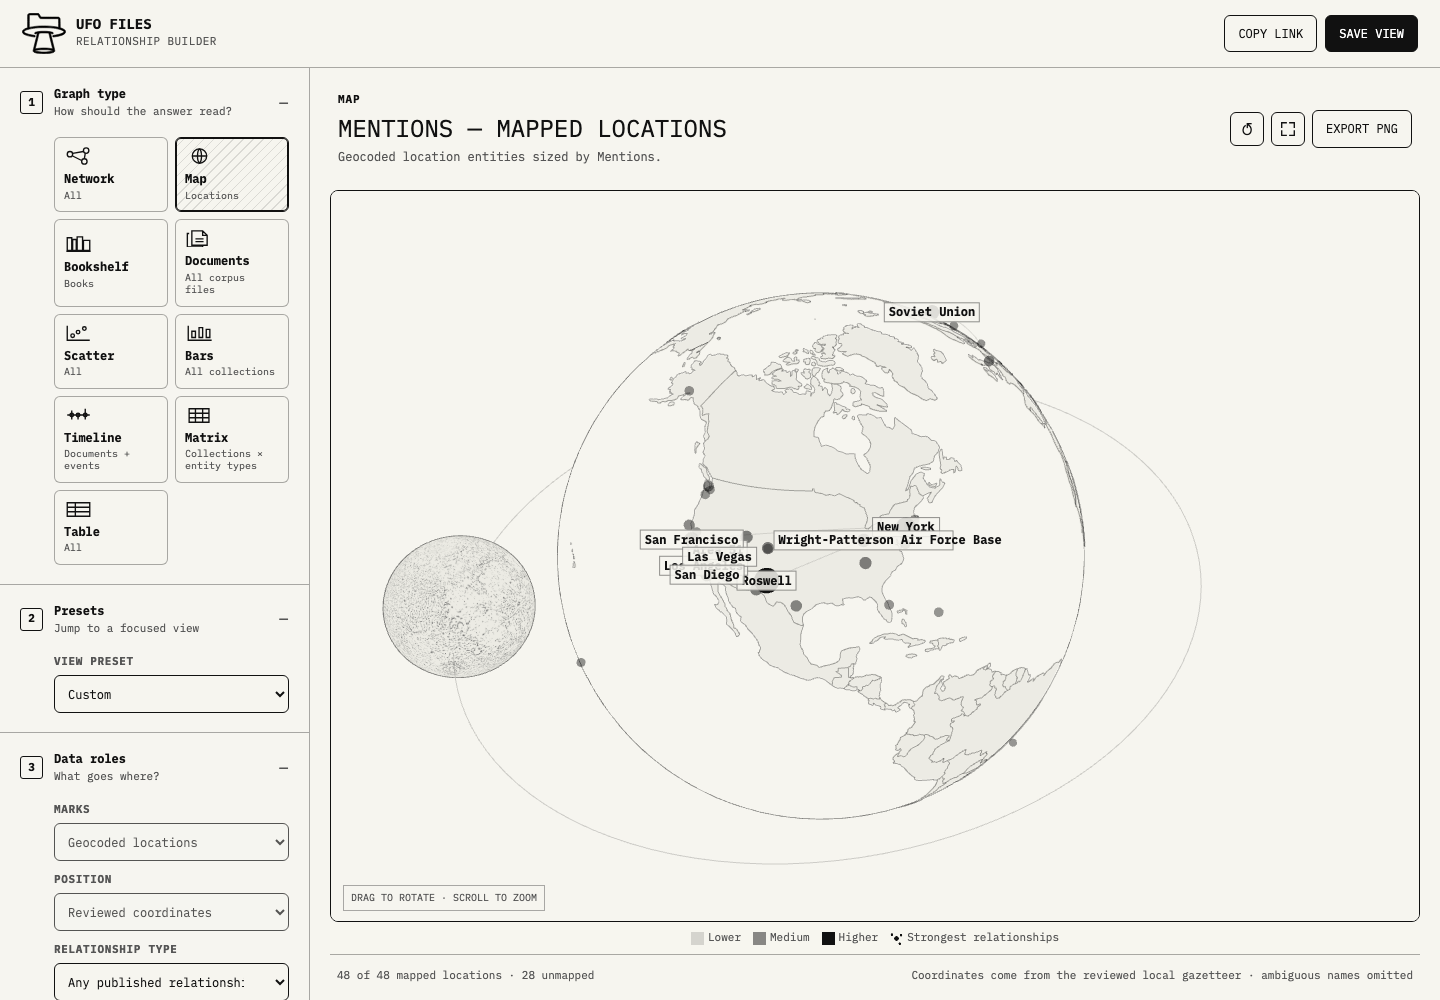
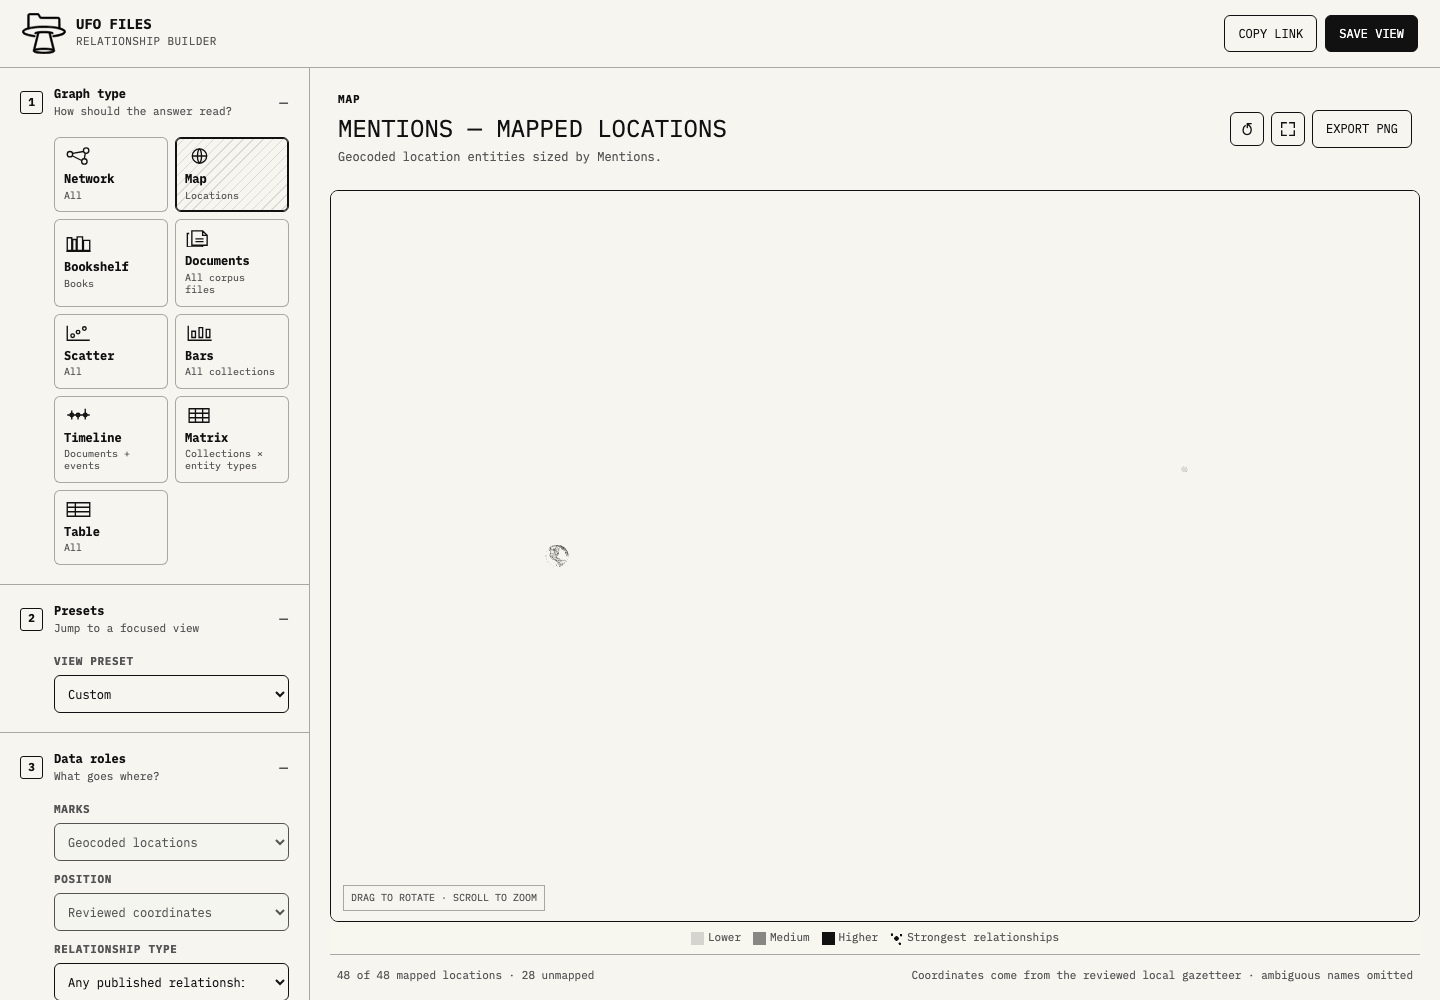
Use physical Earth-Moon distance

diff --git a/map-globe.js b/map-globe.js
@@ -11,14 +11,15 @@ const DEFAULT_GLOBE_ROTATION = { x: .66, y: .11 };
 const AUTO_ROTATION_SPEED = .000025;
 const EARTH_EQUATORIAL_RADIUS_KM = 6371;
 const MOON_EQUATORIAL_RADIUS_KM = 1737.4;
+const MOON_MEAN_ORBIT_RADIUS_KM = 384_400;
 const MOON_ORBIT_DAYS = 27.322;
 const MOON_ORBIT_INCLINATION = 5.145;
 const MOON_RADIUS = MOON_EQUATORIAL_RADIUS_KM / EARTH_EQUATORIAL_RADIUS_KM;
-// The true average separation is about 60 Earth radii; this display-only gap keeps the map usable.
-const MOON_DISPLAY_ORBIT_RADIUS = 1.42;
+const MOON_ORBIT_RADIUS = MOON_MEAN_ORBIT_RADIUS_KM / EARTH_EQUATORIAL_RADIUS_KM;
 // Physical time is compressed so a complete orbit is observable in the interactive view.
 const MOON_DISPLAY_ORBIT_PERIOD_MS = 30_000;
 const MOON_ORBIT_SPEED = Math.PI * 2 / MOON_DISPLAY_ORBIT_PERIOD_MS;
+const MAX_CAMERA_DISTANCE = 180;
 
 function cameraDistanceForCoverage(verticalFov, coverage) {
   const halfFov = THREE.MathUtils.degToRad(verticalFov / 2);
@@ -31,7 +32,7 @@ class GlobeMap {
     this.renderer.setPixelRatio(Math.min(2, window.devicePixelRatio || 1));
     this.renderer.outputColorSpace = THREE.SRGBColorSpace;
     this.scene = new THREE.Scene();
-    this.camera = new THREE.PerspectiveCamera(38, 1, .1, 100);
+    this.camera = new THREE.PerspectiveCamera(38, 1, .1, 500);
     this.camera.position.set(DEFAULT_CAMERA_TARGET_X, 0, cameraDistanceForCoverage(this.camera.fov, DEFAULT_GLOBE_COVERAGE));
     this.camera.lookAt(DEFAULT_CAMERA_TARGET_X, 0, 0);
     this.earthMoonSystem = new THREE.Group();
@@ -61,27 +62,13 @@ class GlobeMap {
     const orbitPlane = new THREE.Group();
     orbitPlane.rotation.z = THREE.MathUtils.degToRad(MOON_ORBIT_INCLINATION);
     this.earthMoonSystem.add(orbitPlane);
-    const orbitPoints = Array.from({ length: 128 }, (_, index) => {
-      const angle = index / 128 * Math.PI * 2;
-      return new THREE.Vector3(
-        Math.cos(angle) * MOON_DISPLAY_ORBIT_RADIUS,
-        0,
-        Math.sin(angle) * MOON_DISPLAY_ORBIT_RADIUS
-      );
-    });
-    const orbitPath = new THREE.LineLoop(
-      new THREE.BufferGeometry().setFromPoints(orbitPoints),
-      new THREE.LineBasicMaterial({ color: 0x111111, transparent: true, opacity: .18 })
-    );
-    orbitPath.name = "moon-orbit-path";
-    orbitPlane.add(orbitPath);
     this.moonOrbit = new THREE.Group();
     orbitPlane.add(this.moonOrbit);
 
     this.moonMaterial = new THREE.MeshBasicMaterial({ color: 0xd0cec7 });
     const moon = new THREE.Group();
     moon.name = "moon";
-    moon.position.x = MOON_DISPLAY_ORBIT_RADIUS;
+    moon.position.x = MOON_ORBIT_RADIUS;
     // SphereGeometry maps the source's central near-side meridian to +X. At the
     // starting +X orbital position, rotate it toward Earth (-X). Inheriting the
     // orbit group's rotation then keeps that same face Earth-facing at every angle.
@@ -226,7 +213,8 @@ class GlobeMap {
     canvas.addEventListener("pointercancel", () => { this.drag = null; });
     canvas.addEventListener("wheel", event => {
       event.preventDefault();
-      this.camera.position.z = THREE.MathUtils.clamp(this.camera.position.z + event.deltaY * .002, 1.75, 5);
+      const zoomFactor = Math.exp(event.deltaY * .0015);
+      this.camera.position.z = THREE.MathUtils.clamp(this.camera.position.z * zoomFactor, 1.75, MAX_CAMERA_DISTANCE);
       this.draw();
     }, { passive: false });
     canvas.addEventListener("dblclick", () => this.reset());
@@ -237,7 +225,7 @@ class GlobeMap {
       else if (event.key === "ArrowUp") this.earthMoonSystem.rotation.x = Math.max(-1.15, this.earthMoonSystem.rotation.x - step);
       else if (event.key === "ArrowDown") this.earthMoonSystem.rotation.x = Math.min(1.15, this.earthMoonSystem.rotation.x + step);
       else if (["+", "="].includes(event.key)) this.camera.position.z = Math.max(1.75, this.camera.position.z - .2);
-      else if (event.key === "-") this.camera.position.z = Math.min(5, this.camera.position.z + .2);
+      else if (event.key === "-") this.camera.position.z = Math.min(MAX_CAMERA_DISTANCE, this.camera.position.z * 1.35);
       else return;
       event.preventDefault();
       this.draw();

diff --git a/tests/test_app.js b/tests/test_app.js
@@ -448,7 +448,9 @@ test("Map is a first-class Three.js graph type with reviewed location data", () 
   assert.match(globe, /DEFAULT_GLOBE_ROTATION = \{ x: \.66, y: \.11 \}/);
   assert.match(globe, /AUTO_ROTATION_SPEED = \.000025/);
   assert.match(globe, /MOON_EQUATORIAL_RADIUS_KM = 1737\.4/);
+  assert.match(globe, /MOON_MEAN_ORBIT_RADIUS_KM = 384_400/);
   assert.match(globe, /MOON_RADIUS = MOON_EQUATORIAL_RADIUS_KM \/ EARTH_EQUATORIAL_RADIUS_KM/);
+  assert.match(globe, /MOON_ORBIT_RADIUS = MOON_MEAN_ORBIT_RADIUS_KM \/ EARTH_EQUATORIAL_RADIUS_KM/);
   assert.match(globe, /MOON_ORBIT_DAYS = 27\.322/);
   assert.match(globe, /MOON_DISPLAY_ORBIT_PERIOD_MS = 30_000/);
   assert.match(globe, /MOON_ORBIT_SPEED = Math\.PI \* 2 \/ MOON_DISPLAY_ORBIT_PERIOD_MS/);
@@ -456,10 +458,13 @@ test("Map is a first-class Three.js graph type with reviewed location data", () 
   assert.match(globe, /loadMoonTexture\(\) \{[\s\S]*new THREE\.TextureLoader\(\)\.load\([\s\S]*moon-paper\.png/);
   assert.match(globe, /setVisible\(visible\) \{[\s\S]*if \(visible\) \{[\s\S]*this\.loadMoonTexture\(\)/);
   assert.doesNotMatch(globe.slice(globe.indexOf("  addMoon()"), globe.indexOf("  loadMoonTexture()")), /TextureLoader/);
-  assert.match(globe, /new THREE\.LineLoop/);
+  assert.doesNotMatch(globe, /moon-orbit-path|new THREE\.LineLoop/);
   assert.match(globe, /moon\.rotation\.y = Math\.PI/);
   assert.match(globe, /this\.earthMoonSystem\.add\(orbitPlane\)/);
   assert.match(globe, /this\.earthMoonSystem\.rotation\.y \+= dx \* \.006/);
+  assert.match(globe, /MAX_CAMERA_DISTANCE = 180/);
+  assert.match(globe, /new THREE\.PerspectiveCamera\(38, 1, \.1, 500\)/);
+  assert.match(globe, /this\.camera\.position\.z \* zoomFactor/);
   assert.match(globe, /this\.moonOrbit\.rotation\.y \+= elapsed \* MOON_ORBIT_SPEED/);
   assert.match(html, /Drag or use arrow keys to rotate the Earth and Moon together/);
   assert.match(globe, /QuadraticBezierCurve3/);

diff --git a/README.md b/README.md
@@ -80,7 +80,7 @@ Entities are a global data role: they can be network nodes, a Scatter axis, the 
 
 The Book type is an area-proportional abstract bookshelf. Each block is a title explicitly identified in transcript text, with area and shade controlled by the selected prominence metric. Titles are extracted only from book, novel, or memoir cues; each mark opens its source evidence in the inspector.
 
-The Map type renders a rotatable Three.js globe with SVG country boundaries and location-entity nodes. A Moon sized proportionally to Earth follows a visible, time-compressed orbit while keeping its near side tidally locked toward Earth. Its flat paper-and-ink treatment matches the map, and dragging rotates the complete Earth–Moon system. Only the displayed orbital gap is compressed so Earth remains useful as a map. Node position comes only from the reviewed `data/location_coordinates.json` gazetteer; ambiguous and unmapped names are reported but never guessed onto the globe. Map nodes retain the same collection, confidence, prominence-inflation, size, label, and evidence-inspection controls as other entity views.
+The Map type renders a rotatable Three.js globe with SVG country boundaries and location-entity nodes. A Moon sized proportionally to Earth follows a time-compressed orbit at its mean physical distance while keeping its near side tidally locked toward Earth. Its flat paper-and-ink treatment matches the map, and dragging rotates the complete Earth–Moon system. The default camera keeps Earth at map scale, so the distant Moon is normally off-canvas until the view is zoomed out. Node position comes only from the reviewed `data/location_coordinates.json` gazetteer; ambiguous and unmapped names are reported but never guessed onto the globe. Map nodes retain the same collection, confidence, prominence-inflation, size, label, and evidence-inspection controls as other entity views.
 
 ## Run locally
 
